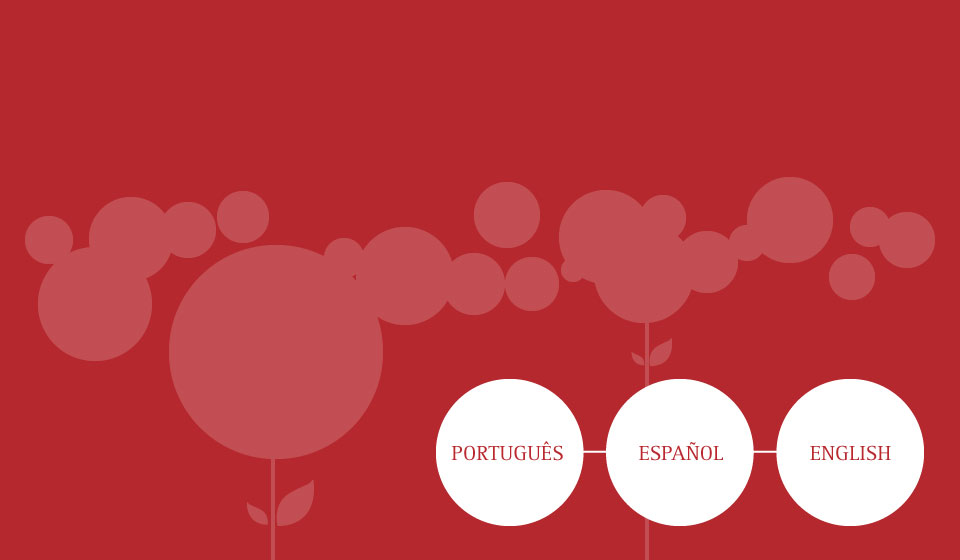
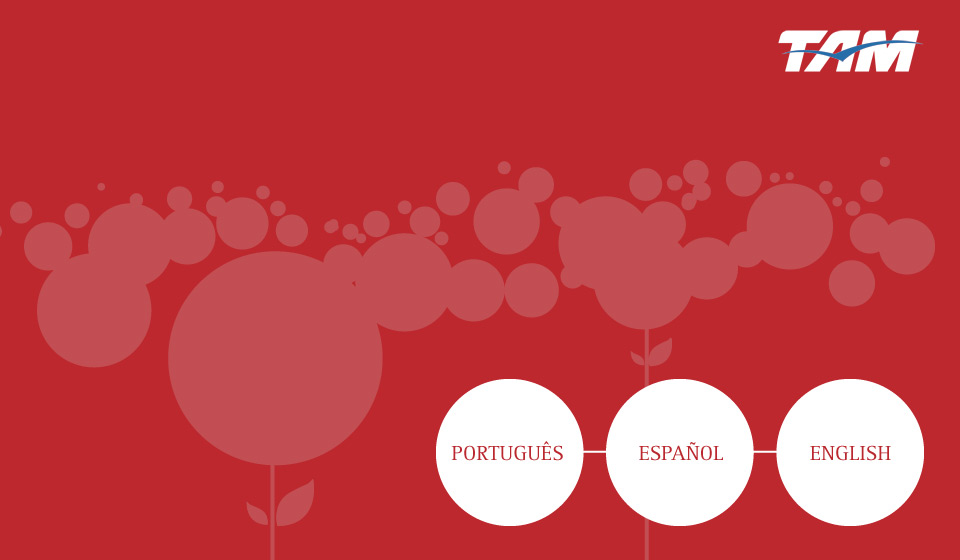
animaciones v1

diff --git a/js/main.js b/js/main.js
@@ -4,7 +4,7 @@ var CIDADES = [
 {"nome": "São Paulo", 		"prefix": "saopaulo", 		"abbr": "SP",	"bolaON": 320,	"bolaOFF": 159, "numVoosON": 302, "numVoosOFF": 141},
 {"nome": "Brasília", 		"prefix": "brasilia", 		"abbr": "DF",	"bolaON": 353,	"bolaOFF": 318, "numVoosON": 335, "numVoosOFF": 300},
 {"nome": "Rio de Janeiro", 	"prefix": "riodejaneiro", 	"abbr": "RJ",	"bolaON": 384,	"bolaOFF": 447, "numVoosON": 365, "numVoosOFF": 430},
-{"nome": "Fortaleza", 		"prefix": "fortaleza", 		"abbr": "CE",	"bolaON": 411,	"bolaOFF": 536, "numVoosON": 393, "numVoosOFF": 519},
+{"nome": "Fortaleza", 		"prefix": "fortaleza", 		"abbr": "CE",	"bolaON": 411,	"bolaOFF": 530, "numVoosON": 393, "numVoosOFF": 515},
 {"nome": "Belo Horizonte", 	"prefix": "belohorizonte", 	"abbr": "MG",	"bolaON": 438,	"bolaOFF": 582, "numVoosON": 420, "numVoosOFF": 564},
 {"nome": "Salvador", 		"prefix": "salvador", 		"abbr": "BA",	"bolaON": 465,	"bolaOFF": 626, "numVoosON": 446, "numVoosOFF": 609},
 {"nome": "Recife", 			"prefix": "recife", 		"abbr": "PE",	"bolaON": 491,	"bolaOFF": 677, "numVoosON": 471, "numVoosOFF": 659},
@@ -15,16 +15,81 @@ var CIDADES = [
 {"nome": "Cuiabá", 			"prefix": "cuiaba", 		"abbr": "MT",	"bolaON": 621,	"bolaOFF": 858, "numVoosON": 602, "numVoosOFF": 839}];
 
 window.onload=function(){
-	init();
-	initPainelRodape();
-	initSwitch();
-	initTooltips();
 
+	$(".bolinhas").each(function(i, bola){
+		$(bola).css({
+	      "top"		: 300,
+	      "left"	: Math.random()*1000,
+	      "height"	: 50,
+	      "width"	: 50
+    	});
+	});
+
+	$("div.titulos").css("display", "block").animate ({ opacity: 1 }, 1000, function(){
+		var animacaoBolinhasComplete = 0;
+		$(".bolinhas").each(function(i, bola){
+			var posXbola = function(){
+				for (i in CIDADES){
+					if (CIDADES[i].prefix == bola.id.split("_")[1]){
+						return CIDADES[i].bolaON;
+					}
+				}
+			}();
+			$(bola).delay(Math.round(Math.random()*2000)).animate ({ 
+				opacity: 1,
+				top: 0,
+				left: posXbola,
+				width: 22,
+				height: 22
+			}, 500, function(){
+				animacaoBolinhasComplete++;
+				if (animacaoBolinhasComplete >= 12){
+					continueAnimation1();
+				}
+			})
+		});
+	});
+
+	function continueAnimation1(){
+		$("img#secao1_ON").fadeIn("fast", function(){
+			//$("img#secao1_ON").fadeIn();
+			$("#txtPasso1").fadeIn("fast", function(){
+				$("#txtVoosWrapper").fadeIn();
+				$("#txtNomesCidadesWrapper").fadeIn();
+				$("#legendaGraficoVoos").fadeIn();
+				$("#txtVoosWrapper").fadeIn();
+			}).delay(500, function(){
+				$("#txtValoresCarbonoWrapper").fadeIn();
+				$("#legendaGraficoEmissoes").fadeIn();
+				$("#txtValoresCarbonoWrapper").fadeIn()
+				.delay(500, function(){
+					$("#txtPasso2").fadeIn();
+					$("#peSecao2").fadeIn();
+					$("#plantas").fadeIn();
+					$("#legendaGraficoPlantas").fadeIn();
+					$(".txt_rodape").fadeIn()
+					.delay(500, function(){
+						$("#aviao").animate({ 
+							left:22,
+							opacity: 1
+						}, 500, function(){
+							$("#switchWrapper").delay(500).fadeIn("slow", function(){
+								init();
+							});
+						});
+					});
+				});
+			});
+		});
+		
+	}
 }; //fim onload
 
 
 function init(){
-	//$("#legendaGraficoPlantas").hide();
+	initPainelRodape();
+	initSwitch();
+	initTooltips();
 }
 
 function initPainelRodape(){
@@ -48,7 +113,6 @@ function initPainelRodape(){
 }
 
 function initSwitch(){
-
 	$("#switch, #plantas").click(function(evt){
 		status = status == 0?1:0;
 		switchStatus();
@@ -84,20 +148,19 @@ function switchStatus(){
 			$("#txtVoosWrapper p").each(function(i, numero){
 				$(numero).animate						({ left: moveNumerosVoos($(numero).attr("id")) })
 			});
-			$("#txtValoresCarbonoWrapper").animate		({ top: 87 });
+			///
+			$("#txtValoresCarbonoWrapper").css("top", 87);
 
 			//passo 2
 			$("#txtPasso2").delay(500).animate			({ top: 235 }, 500, function(){
 
 				//SEÇÃO 2
-				//$("img#plantas").attr("src", "images/secao2_ON.png");
+				$("img#plantas").attr("src", "images/secao2_ON.png");
+
 				$("img#plantas").css("opacity", 0)
 				.attr("src", "images/secao2_ON_" + lang + ".png")
-				.animate								({ opacity: 1 });
-
-				$("#legendaGraficoPlantas").animate		({ top: 320 });
-				$("#txtValoresCarbonoWrapper").animate	({ top: 87 }, 500, function(){
-					transition = false;
+				.animate								({ opacity: 1 }, 500, function(){
+					$("#legendaGraficoPlantas").animate	({ top: 320 });
 				});
 			});
 		});
@@ -122,7 +185,7 @@ function switchStatus(){
 
 				//passo 2
 			$("#txtPasso2").animate								({ top: 420 }, 500, function(){
-				$("#txtValoresCarbonoWrapper").animate			({ top: 280 });
+				$("#txtValoresCarbonoWrapper").css("top", 280);//			({ top: 380 });
 				$( "#secao1_OFF" ).animate						({ top: 275 });
 				$( "#secao1_OFF" ).delay(500).animate			({ opacity: 0 });
 				$("#secao1_ON").animate							({ opacity: 1 });
@@ -134,8 +197,6 @@ function switchStatus(){
 				$("#txtVoosWrapper p").each(function(i, numero){
 					$(numero).animate							({ left: moveNumerosVoos($(numero).attr("id")) })
 				});
-				
-				
 			});
 		});
 	}

diff --git a/css/info_tam_sustentabilidade.css b/css/info_tam_sustentabilidade.css
@@ -187,6 +187,7 @@ span{
 	width: 100%;
 	position: absolute;
 	top: 20px;
+	opacity: 0;
 }
 
 #main div.titulos h4{
@@ -205,6 +206,7 @@ div#switchWrapper{
 	top: 47px;
 	right: 36px;
 	z-index: 1000;
+	display: none;
 }
 div#switchWrapper img#switch{
 	float: left;
@@ -236,8 +238,9 @@ div#switchWrapper p:nth-child(2){
 img#aviao{
 	width: 160px;
 	position: absolute;
-	left: 22px;
+	left: -100px;
 	top: 42px;
+	opacity: 0;
 }
 
 /* linha divisoria 1 */
@@ -249,6 +252,7 @@ div#txtPasso1{
 	width: 100%;
 	position: absolute;
 	top: 130px;
+	display: none;
 }
 div#txtPasso1 h4#txtPasso1{
 	font-size: .9em;
@@ -271,6 +275,7 @@ div#secao1{
 div#secao1 div#txtVoosWrapper {
 	position: absolute;
 	top: 34px;
+	display: none;
 }
 
 .numerosGrafico { 
@@ -296,6 +301,7 @@ div#txtVoosWrapper p.numerosGrafico{
 
 div#secao1 div#txtNomesCidadesWrapper{	
 	position: absolute;
+	display: none;
 	left: 304px;
 	top: 150px;
 	-webkit-transform-origin: top left;
@@ -338,21 +344,22 @@ div#secao1 div#bolinhasWrapper{
 	width: 17px;
 }
 
-.bolinhas#bolinha_saopaulo 		{left: 320px}
-.bolinhas#bolinha_brasilia 		{left: 353px}
-.bolinhas#bolinha_riodejaneiro 	{left: 384px}
-.bolinhas#bolinha_fortaleza 	{left: 411px}
-.bolinhas#bolinha_belohorizonte {left: 438px}
-.bolinhas#bolinha_salvador 		{left: 465px}
-.bolinhas#bolinha_recife 		{left: 491px}
-.bolinhas#bolinha_portoalegre 	{left: 517px}
-.bolinhas#bolinha_curitiba 		{left: 543px}
-.bolinhas#bolinha_manaus 		{left: 569px}
-.bolinhas#bolinha_natal 		{left: 595px}
-.bolinhas#bolinha_cuiaba 		{left: 621px}
+.bolinhas#bolinha_saopaulo 		{ left: 320px; opacity: 0; }
+.bolinhas#bolinha_brasilia 		{ left: 353px; opacity: 0; }
+.bolinhas#bolinha_riodejaneiro 	{ left: 384px; opacity: 0; }
+.bolinhas#bolinha_fortaleza 	{ left: 411px; opacity: 0; }
+.bolinhas#bolinha_belohorizonte { left: 438px; opacity: 0; }
+.bolinhas#bolinha_salvador 		{ left: 465px; opacity: 0; }
+.bolinhas#bolinha_recife 		{ left: 491px; opacity: 0; }
+.bolinhas#bolinha_portoalegre 	{ left: 517px; opacity: 0; }
+.bolinhas#bolinha_curitiba 		{ left: 543px; opacity: 0; }
+.bolinhas#bolinha_manaus 		{ left: 569px; opacity: 0; }
+.bolinhas#bolinha_natal 		{ left: 595px; opacity: 0; }
+.bolinhas#bolinha_cuiaba 		{ left: 621px; opacity: 0; }
 
 h5.legendasGrafico{
 	position: absolute;
+	display: none;
 }
 h5.legendasGrafico#legendaGraficoVoos{
 	top: 31px;
@@ -370,6 +377,7 @@ div#secao1 img#secao1_ON{
 	margin-top: 56px;
 	margin-left: 88px;
 	pointer-events: none;
+	display: none;
 }
 div#secao1 img#secao1_OFF{
 	position: absolute;
@@ -382,6 +390,7 @@ div#secao1 div#txtValoresCarbonoWrapper{
 	margin-left: 100px;
 	position: absolute;
 	top: 280px;
+	display: none;
 }
 div#secao1 div#txtValoresCarbonoWrapper p{
 	float: left;
@@ -409,6 +418,7 @@ div#txtPasso2{
 	top: 420px;
 	left: 90px;
 	width: 780px;
+	display: none;
 }
 
 div#txtPasso2 h4{
@@ -437,6 +447,7 @@ div#secao2 img#plantas{
 	bottom: 35px;
 	left: 80px;
 	cursor: pointer;
+	display: none;
 }
 div#secao2 h5#legendaGraficoPlantas{
 	top: 468px;
@@ -532,12 +543,14 @@ p.txt_rodape{
 	color: #555;
 	font-size: 11px;
 	line-height: 13px;
+	display: none;
 }
  hr#peSecao2{
  	position: absolute;
 	top: -14px;
 	width: 670px;
 	left: 140px;
+	display: none;
  }
 
 
